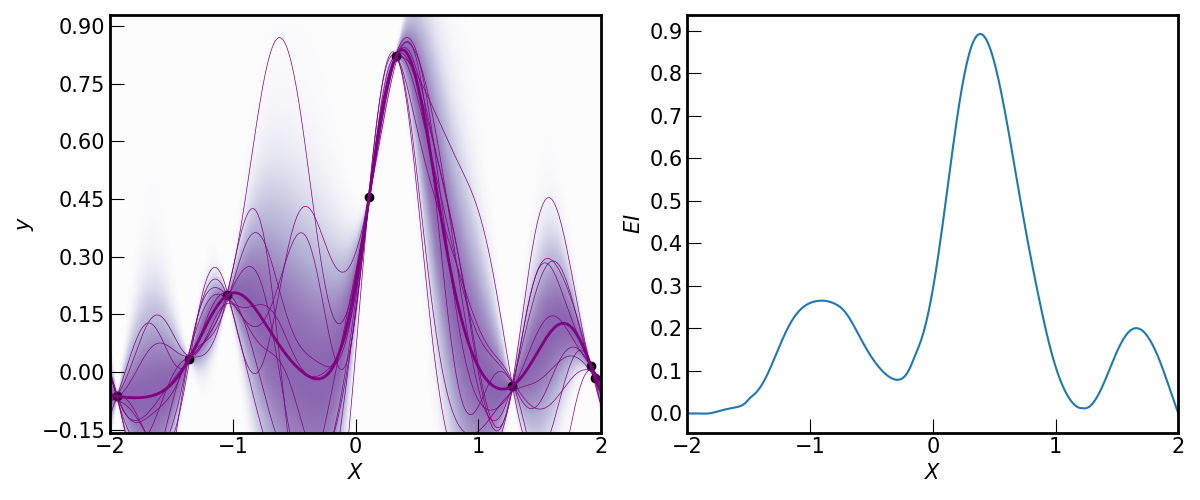
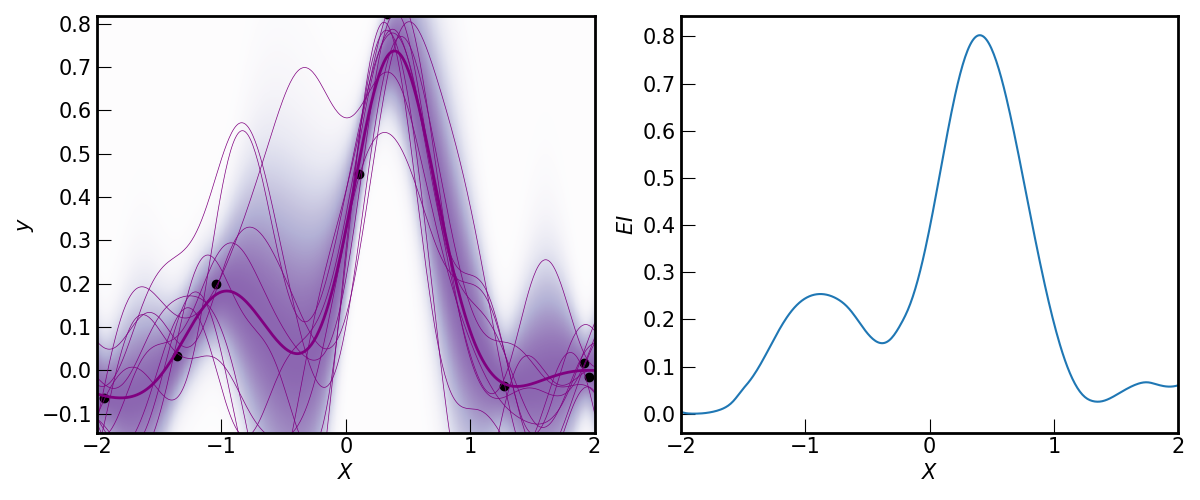
minor changes

diff --git a/examples/example_bayesopt.py b/examples/example_bayesopt.py
@@ -15,7 +15,7 @@ X_train, X_test, y_train = data_from_func(f=func, N=8, M=400, xx=[-2.0, 2.0, -2.
 kernel = RBFKernel(theta=[1.0, 1.0])
 
 # noise
-eps = 0.01
+eps = 0.1
 
 # choose solver
 solver = Cholesky()
@@ -45,7 +45,7 @@ y_mean, y_cov = model.predict(X_test)
 model.plot_both(X=X_test, mu=y_mean, cov=y_cov, post=True, plot_acq=True)
 
 # Bayesian Optimization
-for i in range(1):
+for i in range(5):
     x_next = model.select_next_point()                          # minimize acquisition function
     y_next = func(x_next)                                       # compute new y
     X_train = np.append(X_train, x_next, axis=0)                # add new x to X_train

diff --git a/src/gpr/gaussian_process.py b/src/gpr/gaussian_process.py
@@ -209,8 +209,8 @@ class GP:
             The next point to evaluate.
         """
 
-        # self.f_star = np.min(self.y_train)  # Current best known function value
-        self.f_star = np.max(self.y_train)  # Current best known function value
+        self.f_star = np.min(self.y_train)  # Current best known function value
+        # self.f_star = np.max(self.y_train)  # Current best known function value
 
         self.acq_func = ExpectedImprovement(model=self,
                                             xi=0.01,
